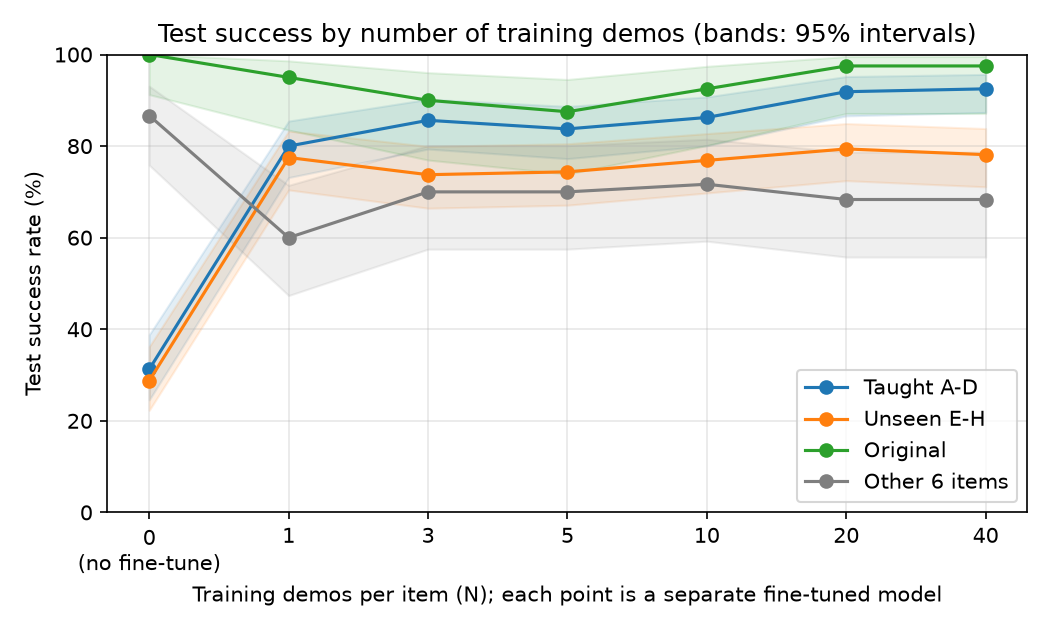
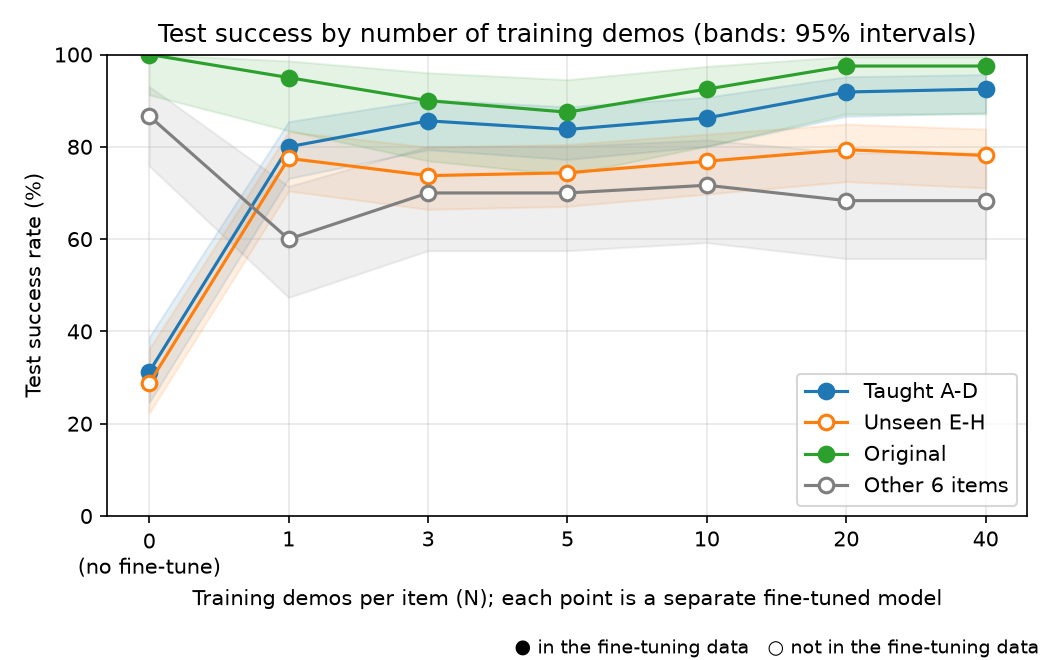
Add Week 2 model card draft and a combined results chart
results/overview.png puts the success chart and the wording heatmap side by side; filled markers mean in the fine-tuning data and hollow ones mean not, in both charts. model_card.md is the draft README for the Hugging Face checkpoints.

diff --git a/dev-challenge/week-2/tools/analyze.py b/dev-challenge/week-2/tools/analyze.py
@@ -9,6 +9,7 @@ Writes, under RESULTS (default results/):
     tables.md                       all tables, with 95% Wilson intervals
     success_vs_n.png                success rate against demos per item
     wording_by_n.png                successes per wording and N
+    overview.png                    the two above side by side
     training.png                    loss and validation curves
 
 Runs on the laptop CPU in a few seconds (needs matplotlib):
@@ -43,6 +44,8 @@ SETS = {
     "other": "Other 6 items",
 }
 COLORS = {"taught": "#1f77b4", "unseen": "#ff7f0e", "original": "#2ca02c", "other": "#7f7f7f"}
+# Filled markers (●) for what the fine-tune saw, hollow (○) for what it did not, in both charts.
+IN_TRAINING = {"taught", "original"}
 
 
 def run_name(n: int) -> str:
@@ -191,44 +194,65 @@ def main() -> None:
                      rows), ""]
     (args.results / "tables.md").write_text("\n".join(out), encoding="utf-8")
 
-    # Figure 1: success rate against N.
+    # Figures 1 and 2 are drawn by two helpers, once each on their own and once side by
+    # side (overview.png), so the pair also works where images cannot be placed in a row.
     xs = list(range(len(NS)))
-    fig, ax = plt.subplots(figsize=(7, 4.2))
-    for s, label in SETS.items():
-        ks = [by_set[n][s] for n in NS]
-        ys = [100 * k / t for k, t in ks]
-        lo = [100 * wilson(k, t)[0] for k, t in ks]
-        hi = [100 * wilson(k, t)[1] for k, t in ks]
-        ax.plot(xs, ys, marker="o", color=COLORS[s], label=label)
-        ax.fill_between(xs, lo, hi, color=COLORS[s], alpha=0.12)
-    ax.set_xticks(xs, ["0\n(no fine-tune)", *(str(n) for n in NS[1:])])
-    ax.set_xlabel("Training demos per item (N); each point is a separate fine-tuned model")
-    ax.set_ylabel("Test success rate (%)")
-    ax.set_ylim(0, 100)
-    ax.grid(alpha=0.3)
-    ax.legend(loc="lower right")
-    ax.set_title("Test success by number of training demos (bands: 95% intervals)")
-    fig.tight_layout()
+    n_ticks = ["0\n(no fine-tune)", *(str(n) for n in NS[1:])]
+    grid = [[count(test[n], lambda r, w=w: r["item"] in TRAINED_ITEMS and r["wording"] == w)[0] for n in NS]
+            for w in WORDINGS]
+
+    def draw_success(ax) -> None:
+        # Success rate against N, one line per set, with 95% Wilson bands.
+        for s, label in SETS.items():
+            ks = [by_set[n][s] for n in NS]
+            ys = [100 * k / t for k, t in ks]
+            lo = [100 * wilson(k, t)[0] for k, t in ks]
+            hi = [100 * wilson(k, t)[1] for k, t in ks]
+            ax.plot(xs, ys, marker="o", markersize=7, markeredgewidth=1.5, color=COLORS[s], label=label,
+                    markerfacecolor=COLORS[s] if s in IN_TRAINING else "white")
+            ax.fill_between(xs, lo, hi, color=COLORS[s], alpha=0.12)
+        ax.set_xticks(xs, n_ticks)
+        ax.set_xlabel("Training demos per item (N); each point is a separate fine-tuned model")
+        ax.set_ylabel("Test success rate (%)")
+        ax.set_ylim(0, 100)
+        ax.grid(alpha=0.3)
+        ax.legend(loc="lower right")
+        ax.set_title("Test success by number of training demos (bands: 95% intervals)")
+
+    def draw_wordings(fig, ax) -> None:
+        # Wording x N heatmap of successes out of 40.
+        im = ax.imshow(grid, cmap="Blues", vmin=0, vmax=40, aspect="auto")
+        for i, row in enumerate(grid):
+            for j, v in enumerate(row):
+                ax.text(j, i, str(v), ha="center", va="center", color="white" if v > 26 else "black", fontsize=9)
+        ax.set_xticks(xs, n_ticks)
+        ax.set_yticks(range(len(WORDINGS)), ["original ●", *(f"{w} ●" for w in TAUGHT), *(f"{w} ○" for w in UNSEEN)])
+        ax.axhline(4.5, color="black", linewidth=0.8)
+        ax.set_xlabel("Training demos per item (N); each column is a separate model")
+        ax.set_title("Successes out of 40 per wording (4 trained items x 10 episodes)")
+        fig.colorbar(im, ax=ax, fraction=0.04)
+
+    legend = "● in the fine-tuning data   ○ not in the fine-tuning data"
+    fig, ax = plt.subplots(figsize=(7, 4.4))
+    draw_success(ax)
+    fig.tight_layout(rect=(0, 0.04, 1, 1))
+    fig.text(0.99, 0.01, legend, ha="right", fontsize=9)
     fig.savefig(args.results / "success_vs_n.png", dpi=150)
     plt.close(fig)
 
-    # Figure 2: wording x N heatmap.
-    grid = [[count(test[n], lambda r, w=w: r["item"] in TRAINED_ITEMS and r["wording"] == w)[0] for n in NS]
-            for w in WORDINGS]
     fig, ax = plt.subplots(figsize=(7, 4.6))
-    im = ax.imshow(grid, cmap="Blues", vmin=0, vmax=40, aspect="auto")
-    for i, row in enumerate(grid):
-        for j, v in enumerate(row):
-            ax.text(j, i, str(v), ha="center", va="center", color="white" if v > 26 else "black", fontsize=9)
-    ax.set_xticks(xs, ["0\n(no fine-tune)", *(str(n) for n in NS[1:])])
-    ax.set_yticks(range(len(WORDINGS)), ["original", *(f"{w} ●" for w in TAUGHT), *(f"{w} ○" for w in UNSEEN)])
-    ax.axhline(4.5, color="black", linewidth=0.8)
-    ax.set_xlabel("Training demos per item (N); each column is a separate model")
-    ax.set_title("Successes out of 40 per wording (4 trained items x 10 episodes)")
-    fig.colorbar(im, ax=ax, fraction=0.04)
+    draw_wordings(fig, ax)
     fig.tight_layout(rect=(0, 0.04, 1, 1))
-    fig.text(0.99, 0.01, "● taught   ○ unseen (test only)", ha="right", fontsize=9)
+    fig.text(0.99, 0.01, legend, ha="right", fontsize=9)
     fig.savefig(args.results / "wording_by_n.png", dpi=150)
+    plt.close(fig)
+
+    fig, (ax1, ax2) = plt.subplots(1, 2, figsize=(14, 4.8), gridspec_kw={"width_ratios": [1, 1.05]})
+    draw_success(ax1)
+    draw_wordings(fig, ax2)
+    fig.tight_layout(rect=(0, 0.04, 1, 1))
+    fig.text(0.99, 0.01, legend, ha="right", fontsize=9)
+    fig.savefig(args.results / "overview.png", dpi=150)
     plt.close(fig)
 
     # Figure 3: loss and validation curves.
@@ -258,7 +282,7 @@ def main() -> None:
     fig.savefig(args.results / "training.png", dpi=150)
     plt.close(fig)
 
-    print(f"Wrote {args.results}/tables.md, success_vs_n.png, wording_by_n.png, training.png")
+    print(f"Wrote {args.results}/tables.md, success_vs_n.png, wording_by_n.png, overview.png, training.png")
 
 
 if __name__ == "__main__":

diff --git a/dev-challenge/week-2/model_card.md b/dev-challenge/week-2/model_card.md
@@ -1,0 +1,138 @@
+---
+license: apache-2.0
+library_name: lerobot
+pipeline_tag: robotics
+base_model: lerobot/smolvla_libero
+datasets:
+- lerobot/libero
+tags:
+- lerobot
+- smolvla
+- robotics
+- libero
+- vision-language-action
+---
+
+# SmolVLA LIBERO, picnic wordings
+
+`lerobot/smolvla_libero` fine-tuned so that four picnic items in
+LIBERO-Object can be requested in new words. Out of the box, the model packs
+an item every time with its training sentence ("pick up the butter and place
+it in the basket") but only about a third of the time with other ways of
+saying it ("pack the butter for our picnic"). These checkpoints were
+fine-tuned on N demos per item, each labeled with the original sentence and
+four new wordings, to measure how many demos it takes.
+
+One demo per item (four demos in total, about $1.50 of rented A100 time)
+lifts the taught wordings from 31% to 80% and four wordings never seen in
+training from 29% to 78%. The experiment, all results, and the code are in
+[johyeongseob/hacktoberfest-2026, Week 2](https://github.com/johyeongseob/hacktoberfest-2026/tree/main/dev-challenge/week-2).
+
+Made for the Hacktoberfest 2026 DEV Challenge, Week 2 (theme: Side Hustle).
+
+## Checkpoints
+
+One folder per N (demos per item). Each was fine-tuned separately from
+`lerobot/smolvla_libero`; the folder holds the checkpoint chosen on
+validation states (the step in the table). In a folder name such as
+`n5-s1000`, `n5` is N = 5 and `s1000` is the training seed 1000, not a step.
+
+| Folder | Demos per item (total) | Chosen step | Taught A-D | Unseen E-H | Original | Other 6 items |
+| --- | --- | --- | --- | --- | --- | --- |
+| (base) `lerobot/smolvla_libero` | 0 | - | 31% | 29% | 100% | 87% |
+| `n1-s1000` | 1 (4) | 3000 | 80% | 78% | 95% | 60% |
+| `n3-s1000` | 3 (12) | 1000 | 86% | 74% | 90% | 70% |
+| `n5-s1000` | 5 (20) | 2000 | 84% | 74% | 88% | 70% |
+| `n10-s1000` | 10 (40) | 3000 | 86% | 77% | 92% | 72% |
+| `n20-s1000` | 20 (80) | 1000 | 92% | 79% | 98% | 68% |
+| `n40-s1000` | 40 (160) | 3000 | 92% | 78% | 98% | 68% |
+
+Test set: LIBERO-Object initial states 0 to 9, seed 1000 + initial state.
+Taught, unseen, and original are over the four trained items (160, 160, and
+40 episodes); "Other 6 items" is the six untrained items with the original
+sentence (60 episodes). 95% intervals and per-item and per-wording results
+are in [results/tables.md](https://github.com/johyeongseob/hacktoberfest-2026/blob/main/dev-challenge/week-2/results/tables.md).
+
+Which one to use: `n20-s1000` or `n40-s1000` for the best success on the
+taught wordings; `n1-s1000` to see what four demos already do. All of them
+are worse than the base model on the six items they were not trained on.
+
+## Wordings
+
+The four trained items are alphabet soup, cream cheese, butter, and orange
+juice; `{item}` stands for the item name.
+
+| | Wording | Used in training |
+| --- | --- | --- |
+| original | pick up the {item} and place it in the basket | yes |
+| A | grab the {item} and put it in the basket | yes |
+| B | {item} in the basket | yes |
+| C | pack the {item} for our picnic | yes |
+| D | could you put the {item} in the picnic basket? | yes |
+| E | toss the {item} into the basket | no (test only) |
+| F | the basket still needs the {item} | no (test only) |
+| G | can you get the {item} into the basket for me? | no (test only) |
+| H | move the {item} over to the basket | no (test only) |
+
+E to H were written and fixed before any training.
+
+## How to run
+
+The checkpoints are ordinary LeRobot 0.6.1 SmolVLA checkpoints. The Week 2
+rollout script runs one in LIBERO-Object with any wording, on CPU or GPU:
+
+```
+git clone https://github.com/johyeongseob/hacktoberfest-2026.git
+cd hacktoberfest-2026/dev-challenge/week-2
+python rollout.py --policy-path johyeongseob725/smolvla-libero-picnic-wordings/n1-s1000 --task-id 6 --wordings C --episodes 1 --device cpu
+```
+
+`--task-id 6` is butter and `--wordings C` is "pack the butter for our
+picnic". Installation (LeRobot 0.6.1 with the `smolvla` and `libero`
+extras) is in the repository's setup guide. To load a checkpoint yourself:
+
+```python
+from huggingface_hub import snapshot_download
+from lerobot.policies.smolvla.modeling_smolvla import SmolVLAPolicy
+
+folder = "n1-s1000"
+path = snapshot_download("johyeongseob725/smolvla-libero-picnic-wordings", allow_patterns=[f"{folder}/*"])
+policy = SmolVLAPolicy.from_pretrained(f"{path}/{folder}")
+```
+
+## Training
+
+- **Start:** `lerobot/smolvla_libero` (whole model trained, as in its own
+  recipe).
+- **Data:** `lerobot/libero` (revision `a1aaacb`), LIBERO-Object, the first
+  N demos of each of the four items. Each training sample gets one of five
+  instructions at random: the original or wordings A to D.
+- **Schedule:** 3000 steps, batch 32, learning rate 2.5e-5 with 200 warmup
+  steps and cosine decay, seed 1000.
+- **Checkpoint choice:** steps 1000, 2000, and 3000 were scored on
+  validation initial states 10 to 14 with wordings A to D (80 episodes); the
+  best one was kept (ties go to the earlier step). Test states were never
+  used for this choice.
+- **Hardware and cost:** one rented A100 SXM 80 GB (RunPod, $1.82/hour),
+  about 28 GB of GPU memory, about 48 minutes per run while sharing the GPU
+  with evaluation (about $1.50). The whole experiment, evaluation included,
+  took about six hours and $11.
+
+## Limitations
+
+- **Forgetting:** the fine-tune only saw four items, so the other six
+  LIBERO-Object items got worse (87% to 60-72%), whatever N.
+- **More demos do not help new wordings:** unseen wordings stay at 74% to
+  79% from N = 1 to 40; for orange juice they drop from 36/40 to 23/40.
+- **One training seed per N:** small-N results may change with other demos
+  or seeds.
+- **Simulation only:** LIBERO-Object in MuJoCo; not tested on a real robot.
+- **Narrow task:** four items, one scene layout family, pick and place into
+  a basket.
+
+## Credits
+
+Base model [`lerobot/smolvla_libero`](https://huggingface.co/lerobot/smolvla_libero)
+([SmolVLA](https://arxiv.org/abs/2506.01844), Hugging Face) and the
+[`lerobot/libero`](https://huggingface.co/datasets/lerobot/libero) dataset,
+both Apache-2.0; benchmark [LIBERO](https://libero-project.github.io/).

diff --git a/dev-challenge/week-2/README.md b/dev-challenge/week-2/README.md
@@ -53,8 +53,14 @@ generated by [tools/analyze.py](tools/analyze.py).
 ### One demo per item does most of the work
 
 <p align="center">
-  <img src="results/success_vs_n.png" alt="Test success rate against demos per item for taught, unseen, original, and other items">
+  <img src="results/overview.png" alt="Left: test success rate against demos per item for taught, unseen, original, and other items. Right: successes out of 40 for each wording and N">
 </p>
+
+Left: success rate per group of wordings. Right: the same test split by
+wording, successes out of 40 (four trained items, 10 episodes each). In
+both, ● marks what was in the fine-tuning data (the original sentence and
+wordings A to D) and ○ what was not (wordings E to H and, on the left, the
+six other items).
 
 | Demos per item (N) | Taught A-D | Unseen E-H | Original | Other 6 items |
 | --- | --- | --- | --- | --- |
@@ -76,13 +82,9 @@ also gets quicker: successful episodes took 8.2 s (taught) and 9.8 s
 (unseen) before fine-tuning and 7 to 8 s after, close to the original
 wording.
 
-<p align="center">
-  <img src="results/wording_by_n.png" alt="Successes out of 40 for each wording and N">
-</p>
-
 | | Wording |
 | --- | --- |
-| original | pick up the {item} and place it in the basket |
+| original ● | pick up the {item} and place it in the basket |
 | A ● | grab the {item} and put it in the basket |
 | B ● | {item} in the basket |
 | C ● | pack the {item} for our picnic |
@@ -92,7 +94,7 @@ wording.
 | G ○ | can you get the {item} into the basket for me? |
 | H ○ | move the {item} over to the basket |
 
-● taught, ○ unseen (test only). Per wording, the two that almost never
+● in the fine-tuning data, ○ test only. In the right chart, the two that almost never
 worked before, B (3/40) and C (1/40), jumped to 29 and 31 with one demo per
 item. Among the unseen ones, F, which names no action for the robot,
 stays the hardest (22 to 31 of 40), and G ends the highest (36/40),
@@ -265,7 +267,7 @@ stays out of Git because of its size (2,940 test videos). The results above
 were made on the laptop from those outputs:
 
 ```
-python tools/analyze.py               # results/tables.md and the three charts
+python tools/analyze.py               # results/tables.md and the charts
 python tools/make_grid.py items       # first video
 python tools/make_grid.py trend --item "orange juice" --wording E --init 8 --ns 1 10 20 40
 python tools/make_grid.py forget --item butter --other ketchup --init 6
